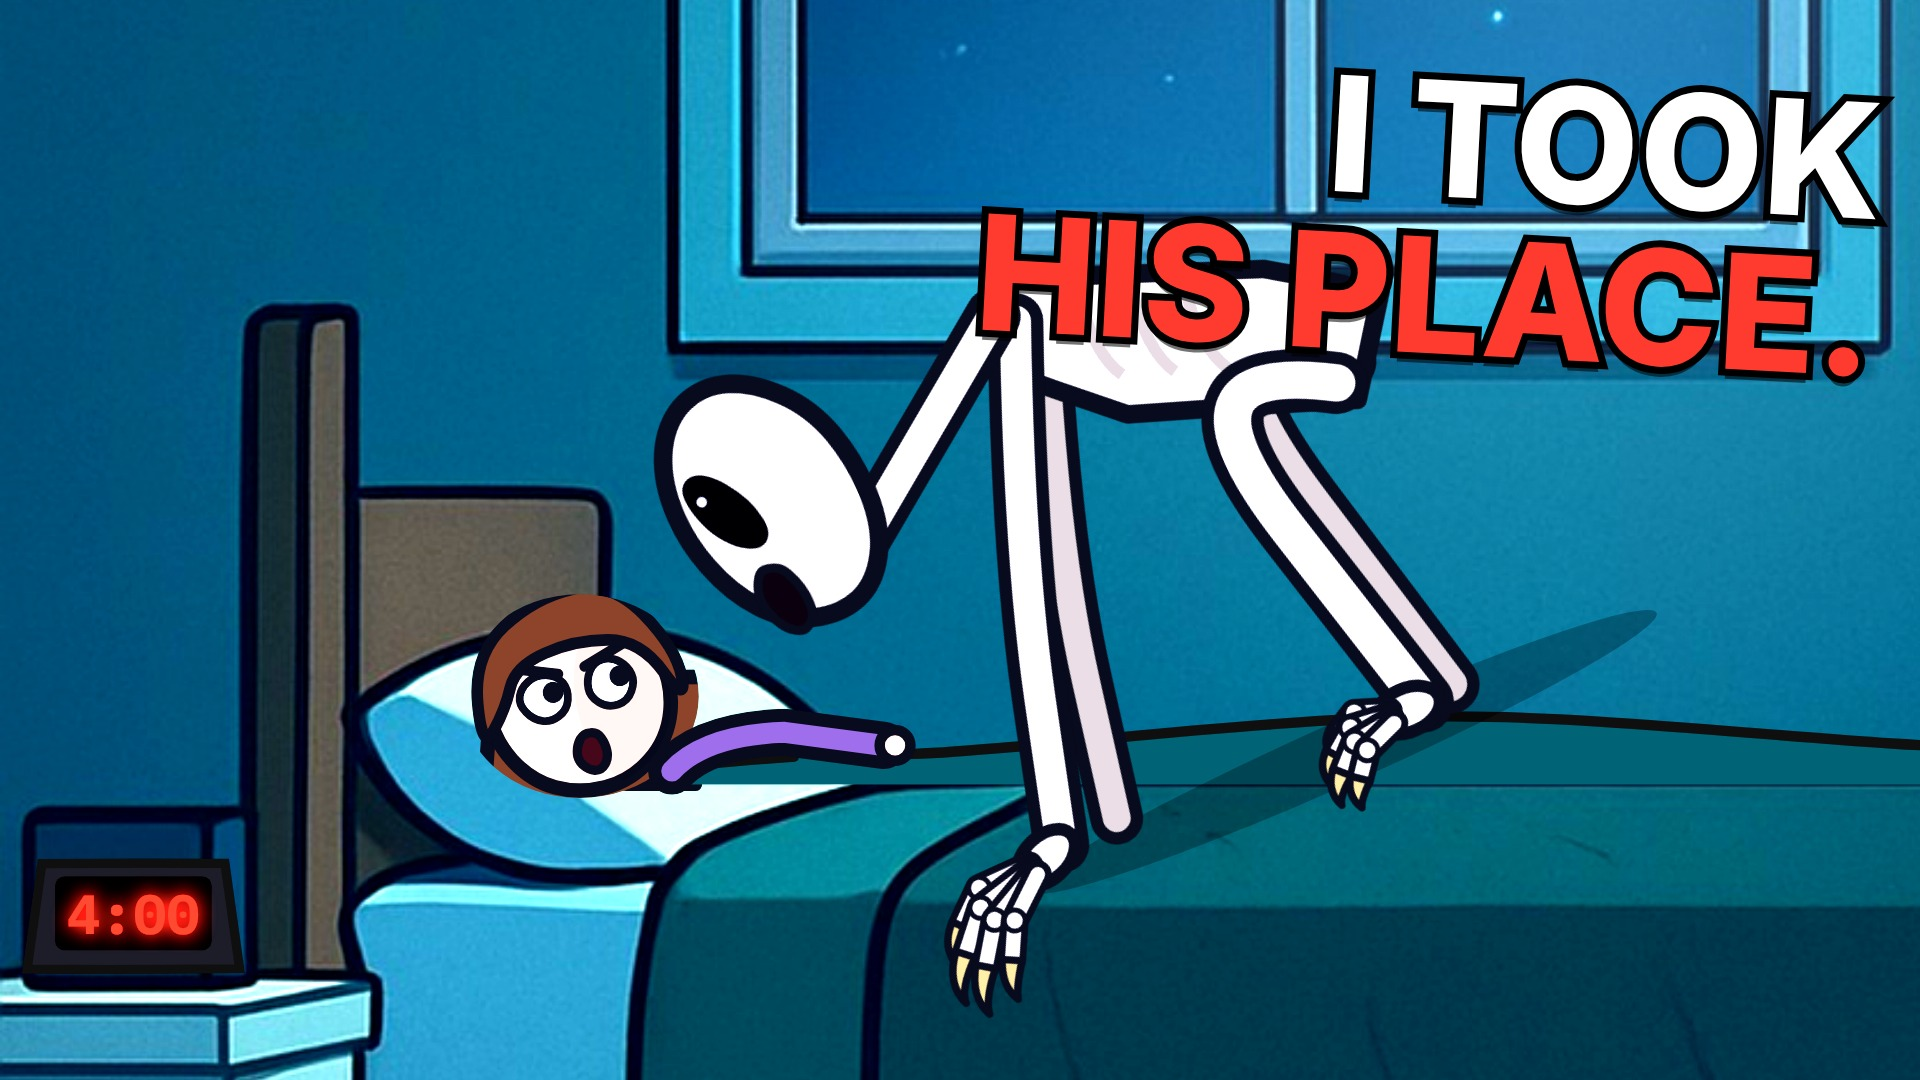
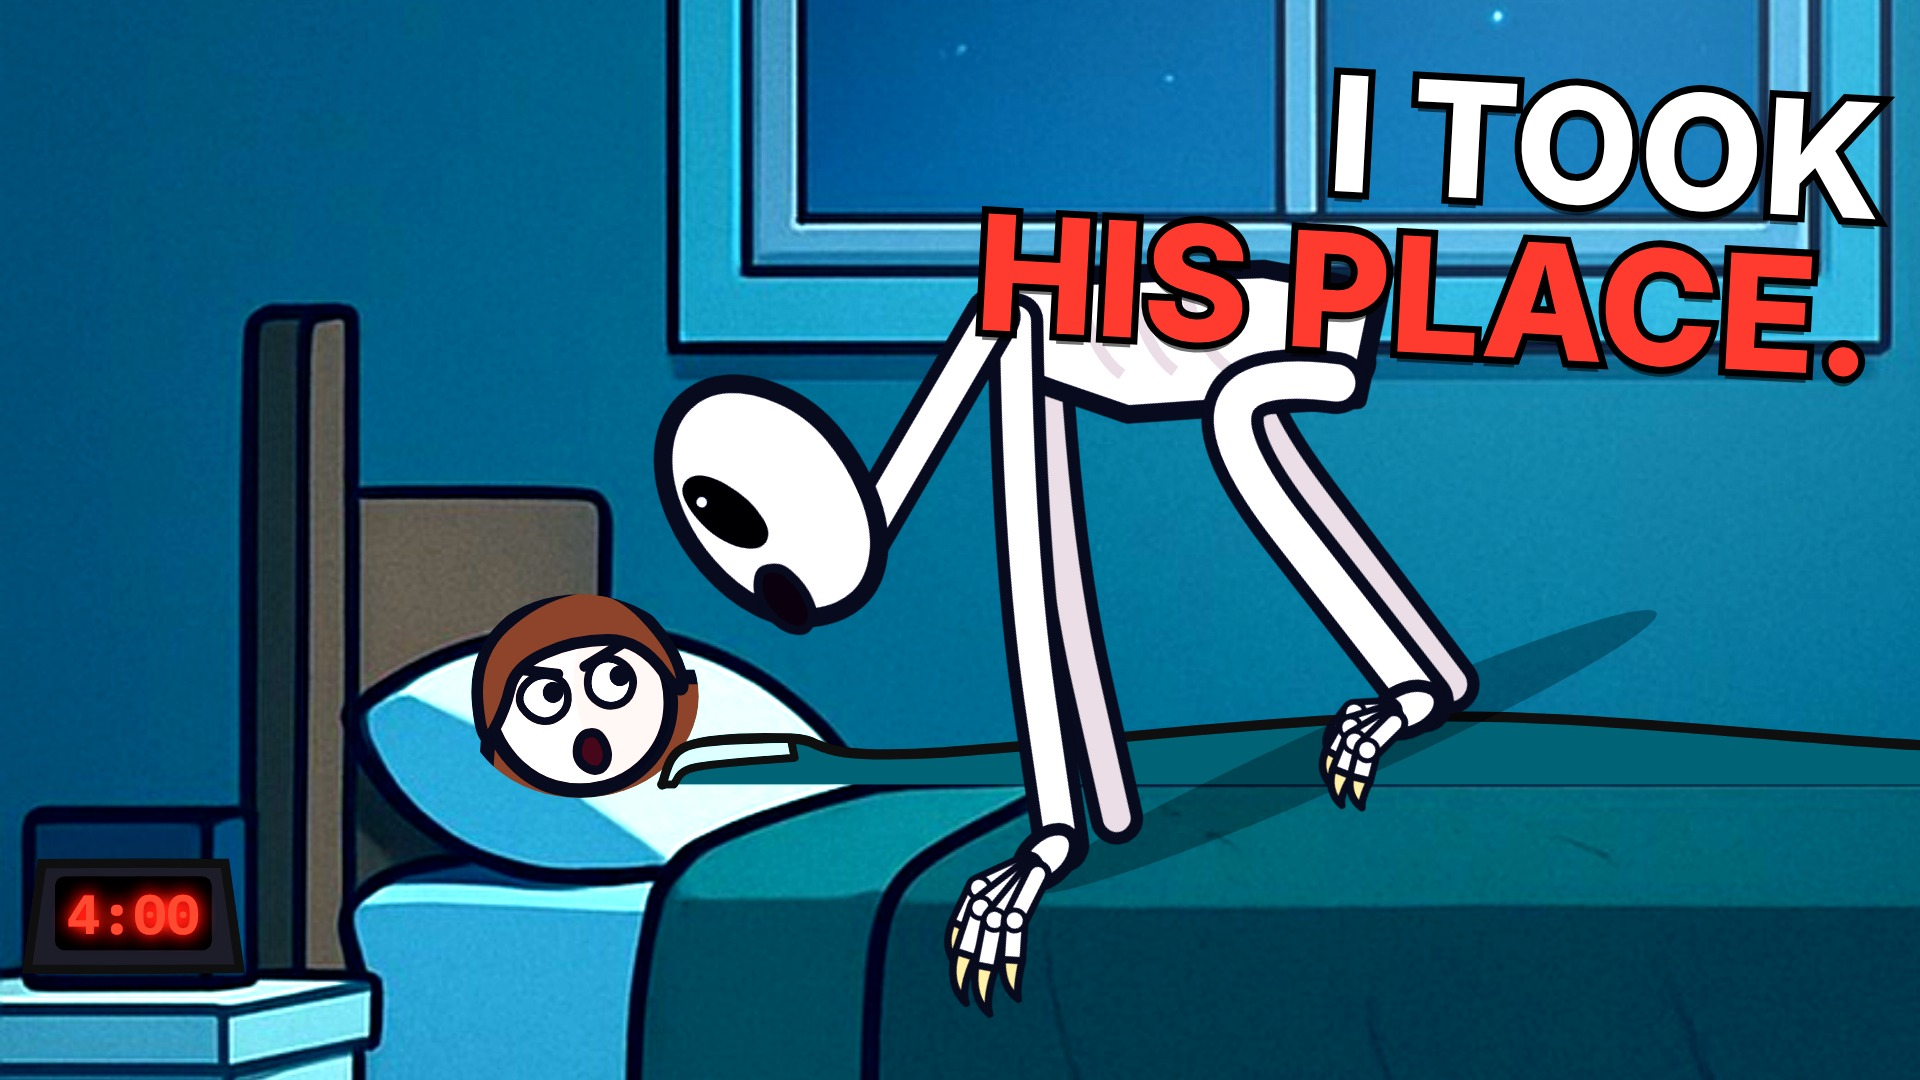
The Rake (stick): people in bed show just the face, no arm or shoulder
Sleepers are now the face on the pillow and the blanket mound over the body; the arm resting on
the blanket and the shoulder piece are removed (also from the parents' bed). Unused colour props
and imports cleaned up; thumbnails re-rendered.

Claude-Session: https://claude.ai/code/session_01HYgoxans3AHT78NQRMkcgm

Changed region(s): [[0.3125, 0.6417, 0.5, 0.7333]]

diff --git a/rake-stick/src/stick/bed.tsx b/rake-stick/src/stick/bed.tsx
@@ -51,11 +51,11 @@ const smoothThrough = (pts: Array<[number, number]>) => {
 	return d;
 };
 
-/** lying on the pillow at px (pillow centre x). The painted bed stays exactly as painted; only what a body changes is
- *  drawn on top, all of it ABOVE the painted quilt's top edge (b.quilt): the head on the pillow (the stick figure
- *  clipped to its head, no arms), the shoulder in the pyjama colour, the mound the body raises in the quilt (in the
- *  painted quilt's own colour, from where the painted quilt starts to the foot), the sheet turned over at its top,
- *  and one arm resting on it with a round hand. */
+/** lying on the pillow at px (pillow centre x). The painted bed stays exactly as painted; only the face and what the
+ *  body changes are drawn on top, all of it ABOVE the painted quilt's top edge (b.quilt): the head on the pillow (the
+ *  stick figure clipped to its head - just the face, no arms or shoulders) and the mound the body raises under the
+ *  quilt (in the painted quilt's own colour, from where the painted quilt starts to the foot), the sheet turned over
+ *  at its top. */
 export const LieInBed: React.FC<{
 	b: BedGeo;
 	is: AnyPerson;
@@ -71,16 +71,12 @@ export const LieInBed: React.FC<{
 	x1?: number;
 	/** false: only the head */
 	blanket?: boolean;
-	shirt?: string;
-	skin?: string;
-	arm?: boolean;
 	dy?: number;
-}> = ({b, is: P, px, s, child = false, light, frame, p = {}, id, wob = 0, x1, blanket = true, shirt = '#e7a9bb', skin = '#f1cfae', arm = true, dy = 0}) => {
+}> = ({b, is: P, px, s, child = false, light, frame, p = {}, id, wob = 0, x1, blanket = true, dy = 0}) => {
 	const k = child ? 0.62 : 1;
 	const R = 36 * (child ? 1.08 : 1) * s;
 	const hy = b.pillowY - 30 + dy;
 	const headUp = 262 * k * s;
-	const lw = 5.5 * s * 0.9;
 	const hcx = px - 0.24 * R;
 	const hcy = hy + 0.03 * R;
 	const ad = child ? 1 : 1.3;
@@ -104,26 +100,8 @@ export const LieInBed: React.FC<{
 	// the turned-over sheet along the top near the head
 	const f0 = contour.slice(0, 3);
 	const foldD = `M${f0[0][0]},${f0[0][1]}${smoothThrough(f0)} L${f0[2][0] + 0.04 * R},${f0[2][1] + 0.2 * R} ${smoothThrough([[f0[2][0] + 0.04 * R, f0[2][1] + 0.2 * R], [f0[1][0] + 0.08 * R, f0[1][1] + 0.22 * R], [f0[0][0] + 0.12 * R, base]]).trim()} Z`;
-	// the shoulder between the chin and the mound
-	const bodyD = `M${px + 0.25 * R},${base} C${px + 0.3 * R},${ySh + 0.25 * R} ${px + 0.5 * R},${ySh} ${xs + 0.3 * R},${ySh} L${xs + 0.3 * R},${base} Z`;
-	// the arm resting on the mound
-	const topAt = (x: number) => {
-		let best = contour[0];
-		for (const c of contour) if (Math.abs(c[0] - x) < Math.abs(best[0] - x)) best = c;
-		return best[1];
-	};
-	const aw = 0.26 * R * (child ? 1 : 0.85);
-	const sh: [number, number] = [xs + 0.05 * R, ySh + 0.3 * R];
-	const el: [number, number] = [xs + 0.95 * R * ad, topAt(xs + 0.95 * R * ad) - aw * 0.3];
-	const hd: [number, number] = [xs + 1.75 * R * ad, topAt(xs + 1.75 * R * ad) - aw * 0.4];
-	const armD = `M${sh[0]},${sh[1]} Q${sh[0] + 0.35 * R},${ySh - 0.08 * R} ${el[0]},${el[1]} L${hd[0]},${hd[1]}`;
 	return (
 		<g>
-			{blanket ? (
-				<Tint light={light}>
-					<path d={bodyD} fill={shirt} stroke={INK} strokeWidth={lw} strokeLinejoin="round" />
-				</Tint>
-			) : null}
 			<defs>
 				<clipPath id={`${id}_head`}>
 					{/* an oval round the head: hair falls onto the pillow with a soft edge, nothing shows below the chin */}
@@ -140,13 +118,6 @@ export const LieInBed: React.FC<{
 					<path d={moundD} fill={b.qcol ?? b.quiltCols[0]} />
 					<path d={topPath} fill="none" stroke={INK} strokeWidth={4.5} strokeLinecap="round" strokeLinejoin="round" />
 					{b.sheet ? <path d={foldD} fill={b.sheet} stroke={INK} strokeWidth={3.5} strokeLinejoin="round" /> : null}
-					{arm ? (
-						<Tint light={light}>
-							<path d={armD} fill="none" stroke={INK} strokeWidth={aw + lw * 2} strokeLinecap="round" strokeLinejoin="round" />
-							<path d={armD} fill="none" stroke={shirt} strokeWidth={aw} strokeLinecap="round" strokeLinejoin="round" />
-							<circle cx={hd[0] + 0.12 * R} cy={hd[1]} r={0.19 * R * (child ? 1 : 0.85)} fill={skin} stroke={INK} strokeWidth={lw * 0.8} />
-						</Tint>
-					) : null}
 				</g>
 			) : null}
 		</g>
@@ -155,19 +126,15 @@ export const LieInBed: React.FC<{
 
 /** Her parents' double bed with Mom (back pillow) and Lily (front pillow) asleep under one blanket: the painted bed
  *  stays as painted; one mound rises over both bodies above the painted quilt's edge - the top sheet turned down over
- *  their chests, the quilt from the waist down - with Mom's arm and Lily's arm resting on it. */
+ *  their chests, the quilt from the waist down - with just their faces on the pillows. */
 export const ParentsBed: React.FC<{
 	frame: number;
 	mom: AnyPerson;
 	lily: AnyPerson;
 	momP?: Record<string, unknown>;
 	lilyP?: Record<string, unknown>;
-	momShirt: string;
-	momSkin: string;
-	lilyShirt: string;
-	lilySkin: string;
 	light?: Light;
-}> = ({frame, mom: Mom, lily: Lily, momP = {}, lilyP = {}, momShirt, momSkin, lilyShirt, lilySkin, light}) => {
+}> = ({frame, mom: Mom, lily: Lily, momP = {}, lilyP = {}, light}) => {
 	const QUILT = '#c09e78';
 	const SHEET = '#cdb9a5';
 	// heads: Mom on the back pillow, Lily on the front one
@@ -207,13 +174,6 @@ export const ParentsBed: React.FC<{
 	const mound = `${top} L1248,722 L300,724 Z`;
 	// the turned-down sheet: the part over their chests, ending in a soft fold at x ~ 740
 	const sheetD = `M232,742${smoothThrough(contour.slice(0, 8))} C752,700 742,712 738,722 L300,724 Z`;
-	const arm = (pts: string, w: number, col: string, hand: [number, number], r: number) => (
-		<g>
-			<path d={pts} fill="none" stroke={INK} strokeWidth={w + 10} strokeLinecap="round" strokeLinejoin="round" />
-			<path d={pts} fill="none" stroke={col} strokeWidth={w} strokeLinecap="round" strokeLinejoin="round" />
-			<circle cx={hand[0]} cy={hand[1]} r={r} fill={momSkin === col ? lilySkin : col === momShirt ? momSkin : lilySkin} stroke={INK} strokeWidth={5} />
-		</g>
-	);
 	return (
 		<g>
 			{head(Mom, 215, mHy, 1.3, false, mR, momP, 'pbMom')}
@@ -221,9 +181,7 @@ export const ParentsBed: React.FC<{
 			<path d={sheetD} fill={SHEET} />
 			<path d={top} fill="none" stroke={INK} strokeWidth={4.5} strokeLinecap="round" strokeLinejoin="round" />
 			<path d="M752,700 C742,712 740,716 738,722" fill="none" stroke={INK} strokeWidth={3.5} strokeLinecap="round" />
-			<Tint light={light}>{arm('M296,676 Q330,654 372,660 L432,662', 12, momShirt, [446, 662], 9)}</Tint>
 			{head(Lily, 430, lHy, 1.6, true, lR, lilyP, 'pbLily')}
-			<Tint light={light}>{arm('M500,700 Q540,668 580,664 L640,664', 16, lilyShirt, [656, 664], 12)}</Tint>
 		</g>
 	);
 };

diff --git a/rake-stick/src/dev/Thumbs.tsx b/rake-stick/src/dev/Thumbs.tsx
@@ -2,7 +2,7 @@
 // Each shows a real moment of the film.
 import React from 'react';
 import {AbsoluteFill} from 'remotion';
-import {Lily, LilyAdult, PAL, Son} from '../components/characters/Cast';
+import {Lily, LilyAdult, Son} from '../components/characters/Cast';
 import {RoomClock} from '../scenes/common';
 import {LieInBed} from '../stick/bed';
 import {GEO, Stage} from '../stick/kit';
@@ -33,7 +33,7 @@ export const Thumb: React.FC<{v: 'A' | 'B' | 'C'}> = ({v}) => {
 					<Stage set="bedroom_night" z={1.85} f={[520, 600]} t={0}>
 						<Glow cx={470} cy={330} r={420} color="#b9cdf2" k={0.45} />
 						<RoomClock f={0} text="4:00" />
-						<LieInBed b={B} is={Lily} px={312} s={1.75} child frame={0} shirt={PAL.lily.shirt} skin={PAL.lily.skin} id="thA" p={{eyes: 'wide', brows: 'raised', mouth: 'scream', look: [1, -0.6], idle: false}} />
+						<LieInBed b={B} is={Lily} px={312} s={1.75} child frame={0} id="thA" p={{eyes: 'wide', brows: 'raised', mouth: 'scream', look: [1, -0.6], idle: false}} />
 						<g transform={`rotate(-20 640 ${B.quilt - 34})`}>
 							<Rake x={600} y={B.quilt - 34} s={1.35} frame={5} pose="side" dir={-1} lean={1} mouth={0.45} qa={false} />
 						</g>
@@ -52,7 +52,7 @@ export const Thumb: React.FC<{v: 'A' | 'B' | 'C'}> = ({v}) => {
 					<Stage set="sonroom_night" z={1.55} f={[700, 600]} t={0}>
 						<Glow cx={720} cy={300} r={460} color="#a9d2e6" k={0.4} />
 						<BedClock x={GEO.sonRoom.clock[0]} y={GEO.sonRoom.clock[1]} text="4:00" frame={0} />
-						<LieInBed b={SB} is={Son} px={262} s={1.75} child frame={0} shirt={PAL.son.shirt} skin={PAL.son.skin} id="thB" p={{eyes: 'closed', brows: 'flat', mouth: 'flat', idle: false}} />
+						<LieInBed b={SB} is={Son} px={262} s={1.75} child frame={0} id="thB" p={{eyes: 'closed', brows: 'flat', mouth: 'flat', idle: false}} />
 						<Rake x={900} y={SB.quilt - 30} s={1.45} frame={5} pose="side" dir={-1} lean={0.5} qa={false} />
 					</Stage>
 				</AbsoluteFill>
@@ -68,7 +68,7 @@ export const Thumb: React.FC<{v: 'A' | 'B' | 'C'}> = ({v}) => {
 				<Stage set="sonroom_night" z={2.3} f={[400, 600]} t={0}>
 					<Glow cx={720} cy={300} r={460} color="#a9d2e6" k={0.45} />
 					<BedClock x={GEO.sonRoom.clock[0]} y={GEO.sonRoom.clock[1]} text="4:00" frame={0} />
-					<LieInBed b={SB} is={LilyAdult} px={262} s={1.15} frame={0} shirt={PAL.lilyAdult.shirt} skin={PAL.lilyAdult.skin} id="thC" p={{eyes: 'wide', brows: 'angry', mouth: 'o', look: [1, -0.4], idle: false}} />
+					<LieInBed b={SB} is={LilyAdult} px={262} s={1.15} frame={0} id="thC" p={{eyes: 'wide', brows: 'angry', mouth: 'o', look: [1, -0.4], idle: false}} />
 					<g transform={`rotate(-24 620 ${SB.quilt - 30})`}>
 						<Rake x={580} y={SB.quilt - 30} s={1.35} frame={5} pose="side" dir={-1} lean={1} mouth={0.5} qa={false} />
 					</g>

diff --git a/rake-stick/src/scenes/ThirdNight.tsx b/rake-stick/src/scenes/ThirdNight.tsx
@@ -1,7 +1,7 @@
 // 5. THE THIRD NIGHT - in her parents' bed; 4:00; silence; through the wall, "Danny..."; the hall; the lamp on;
 // the bed empty, the blanket raked open; they never found him.
 import React from 'react';
-import {Dad, Lily, Mom, PAL} from '../components/characters/Cast';
+import {Dad, Lily, Mom} from '../components/characters/Cast';
 import {LieInBed, ParentsBed} from '../stick/bed';
 import {DoorOpen, Person} from '../stick/goat';
 import {GEO, ramp, shot, Shots, useStick, walk, type Shot} from '../stick/kit';
@@ -53,7 +53,7 @@ export const ThirdNight: React.FC = () => {
 				<g>
 					<Glow cx={1270} cy={290} r={520} color="#b9cdf2" k={0.3} />
 					<BedClock x={70} y={835} text="4:00" frame={f} />
-					<ParentsBed frame={f} mom={Mom} lily={Lily} momP={{eyes: 'closed', brows: 'flat', mouth: 'flat', idle: false}} lilyP={lilyP} momShirt={PAL.mom.shirt} momSkin={PAL.mom.skin} lilyShirt={PAL.lily.shirt} lilySkin={PAL.lily.skin} />
+					<ParentsBed frame={f} mom={Mom} lily={Lily} momP={{eyes: 'closed', brows: 'flat', mouth: 'flat', idle: false}} lilyP={lilyP} />
 				</g>
 			);
 		}
@@ -65,7 +65,7 @@ export const ThirdNight: React.FC = () => {
 				<g>
 					<Glow cx={470} cy={330} r={420} color="#b9cdf2" k={0.35} />
 					<RoomClock f={f} text="4:00" />
-					<LieInBed b={B} is={Dad} px={PILLOW_X} s={1.2} frame={f} id="dad" shirt={PAL.dad.shirt} skin={PAL.dad.skin} p={{eyes: 'wide', brows: 'worried', look: [1, -0.7], mouth: 'o', idle: false}} />
+					<LieInBed b={B} is={Dad} px={PILLOW_X} s={1.2} frame={f} id="dad" p={{eyes: 'wide', brows: 'worried', look: [1, -0.7], mouth: 'o', idle: false}} />
 					{/* it bends down from the hips until its face is just above his */}
 					<g transform={`rotate(${-6 - 16 * lean} 640 ${B.quilt - 34})`}>
 						<Rake x={600} y={B.quilt - 34} s={1.35} frame={f} pose="side" dir={-1} qa={false} lean={0.4 + lean * 0.6} mouth={Math.max(rt.talk * 0.9, t > T('rake_001_danny') && t < end('rake_001_danny') ? 0.25 : 0)} />

diff --git a/rake-stick/src/dev/Sheet.tsx b/rake-stick/src/dev/Sheet.tsx
@@ -20,7 +20,7 @@ export const Sheet: React.FC = () => {
 		return (
 			<Stage set="bedroom_night" z={1.6} f={[600, 640]} t={t}>
 				<BedClock x={GEO.room.clock[0]} y={GEO.room.clock[1] + 20} text="4:00" frame={f} />
-				<LieInBed b={B} is={Lily} px={312} s={1.75} child frame={f} id="l0" shirt={PAL.lily.shirt} skin={PAL.lily.skin} p={{eyes: 'wide', brows: 'worried'}} />
+				<LieInBed b={B} is={Lily} px={312} s={1.75} child frame={f} id="l0" p={{eyes: 'wide', brows: 'worried'}} />
 				<Rake x={760} y={B.quilt - 34} s={1.35} frame={f} pose="side" dir={-1} />
 			</Stage>
 		);
@@ -55,14 +55,14 @@ export const Sheet: React.FC = () => {
 	if (i === 5)
 		return (
 			<Stage set="master_night" z={1.5} f={[620, 640]} t={t}>
-				<LieInBed b={GEO.master} is={Mom} px={215} s={1.3} frame={f} id="m" shirt={PAL.mom.shirt} skin={PAL.mom.skin} p={{eyes: 'closed'}} />
-				<LieInBed b={GEO.master} is={Lily} px={430} s={1.6} child frame={f} id="l" shirt={PAL.lily.shirt} skin={PAL.lily.skin} dy={14} p={{eyes: 'wide', look: [1, 0]}} />
+				<LieInBed b={GEO.master} is={Mom} px={215} s={1.3} frame={f} id="m" p={{eyes: 'closed'}} />
+				<LieInBed b={GEO.master} is={Lily} px={430} s={1.6} child frame={f} id="l" dy={14} p={{eyes: 'wide', look: [1, 0]}} />
 			</Stage>
 		);
 	if (i === 6)
 		return (
 			<Stage set="bedroom_night" z={1.8} f={[560, 640]} t={t}>
-				<LieInBed b={B} is={Dad} px={312} s={1.2} frame={f} id="d" shirt={PAL.dad.shirt} skin={PAL.dad.skin} p={{eyes: 'wide', brows: 'worried', mouth: 'o', look: [1, -0.7]}} />
+				<LieInBed b={B} is={Dad} px={312} s={1.2} frame={f} id="d" p={{eyes: 'wide', brows: 'worried', mouth: 'o', look: [1, -0.7]}} />
 				<Rake x={900} y={B.quilt - 34} s={1.35} frame={f} pose="side" dir={-1} lean={0.6} mouth={0.4} />
 			</Stage>
 		);

diff --git a/rake-stick/src/scenes/LastNight.tsx b/rake-stick/src/scenes/LastNight.tsx
@@ -3,7 +3,7 @@
 // doesn't hide this time. Face to face: "Lily..." Then nothing.
 import React from 'react';
 import {AbsoluteFill} from 'remotion';
-import {LilyAdult, PAL} from '../components/characters/Cast';
+import {LilyAdult} from '../components/characters/Cast';
 import {LieInBed} from '../stick/bed';
 import {GEO, lerp, ramp, shot, Shots, ui, useStick, type Shot} from '../stick/kit';
 import {BedClock, Glow} from '../stick/props';
@@ -70,7 +70,7 @@ export const LastNight: React.FC = () => {
 		const lilyP = {eyes: 'wide', brows: close ? 'angry' : 'worried', mouth: t > at('face') ? 'o' : 'flat', look: coming ? [1, -0.4] : [0.6, -0.8], idle: t < t48};
 		// the blanket at her feet presses down and moves
 		const press = s.tag === 'climb' && t < t49 + 0.5 ? Math.sin((t - t48) * 7) * 5 * ramp(t, t48 + 0.3, t48 + 0.8) : 0;
-		const her = <LieInBed b={SB} is={LilyAdult} px={262} s={1.15} frame={f} id="lily" shirt={PAL.lilyAdult.shirt} skin={PAL.lilyAdult.skin} wob={press} p={lilyP} />;
+		const her = <LieInBed b={SB} is={LilyAdult} px={262} s={1.15} frame={f} id="lily" wob={press} p={lilyP} />;
 		if (s.tag !== 'climb') return <g>{moon}{clock}{her}</g>;
 		// it rises at the foot of the bed, climbs on, and crawls up the length of the bed to her face
 		const rise = ramp(t, T('narrator_048_blanket', 0.55), T('narrator_049_climbed', 0.12));

diff --git a/rake-stick/src/scenes/Today.tsx b/rake-stick/src/scenes/Today.tsx
@@ -1,7 +1,7 @@
 // 7. TODAY - Mom and Lily moved 800 miles away; she grew up, had a son, told herself it was the house.
 // Sam is nine. At breakfast: "Who's the skinny man? ... He just watches." It was never the house. It was us.
 import React from 'react';
-import {PAL, Son} from '../components/characters/Cast';
+import {Son} from '../components/characters/Cast';
 import {LieInBed} from '../stick/bed';
 import {GEO, shot, Shots, useStick, type Shot} from '../stick/kit';
 import {BedClock, Glow} from '../stick/props';
@@ -15,7 +15,7 @@ export const SamAsleep: React.FC<{f: number; clock?: string; eyes?: 'closed' | '
 	<g>
 		<Glow cx={720} cy={300} r={460} color="#a9d2e6" k={0.3} />
 		<BedClock x={GEO.sonRoom.clock[0]} y={GEO.sonRoom.clock[1]} text={clock} frame={f} />
-		<LieInBed b={SB} is={Son} px={262} s={1.75} child frame={f} id="sam" shirt={PAL.son.shirt} skin={PAL.son.skin} p={{eyes, brows: eyes === 'wide' ? 'worried' : 'flat', mouth: eyes === 'wide' ? 'o' : 'flat', look: [1, -0.5]}} />
+		<LieInBed b={SB} is={Son} px={262} s={1.75} child frame={f} id="sam" p={{eyes, brows: eyes === 'wide' ? 'worried' : 'flat', mouth: eyes === 'wide' ? 'o' : 'flat', look: [1, -0.5]}} />
 	</g>
 );
 

diff --git a/rake-stick/src/scenes/FirstNight.tsx b/rake-stick/src/scenes/FirstNight.tsx
@@ -1,6 +1,6 @@
 // 1. THE FIRST NIGHT - 4:00 a.m.; something crouched halfway up her bed; it watches; she hides; it's gone.
 import React from 'react';
-import {Lily, PAL} from '../components/characters/Cast';
+import {Lily} from '../components/characters/Cast';
 import {HideInBed, LieInBed} from '../stick/bed';
 import {GEO, ramp, shot, Shots, ui, useStick, type Shot} from '../stick/kit';
 import {Glow} from '../stick/props';
@@ -76,8 +76,6 @@ export const FirstNight: React.FC = () => {
 					s={1.75}
 					child
 					frame={f}
-					shirt={PAL.lily.shirt}
-					skin={PAL.lily.skin}
 					id="lily"
 					p={{eyes: awake ? 'wide' : 'closed', brows: awake ? 'worried' : 'flat', look: s.tag === 'gone' ? [1, -0.3] : [1, -0.6], idle: s.tag !== 'stare', mouth: s.tag === 'gone' ? 'o' : 'flat'}}
 				/>
